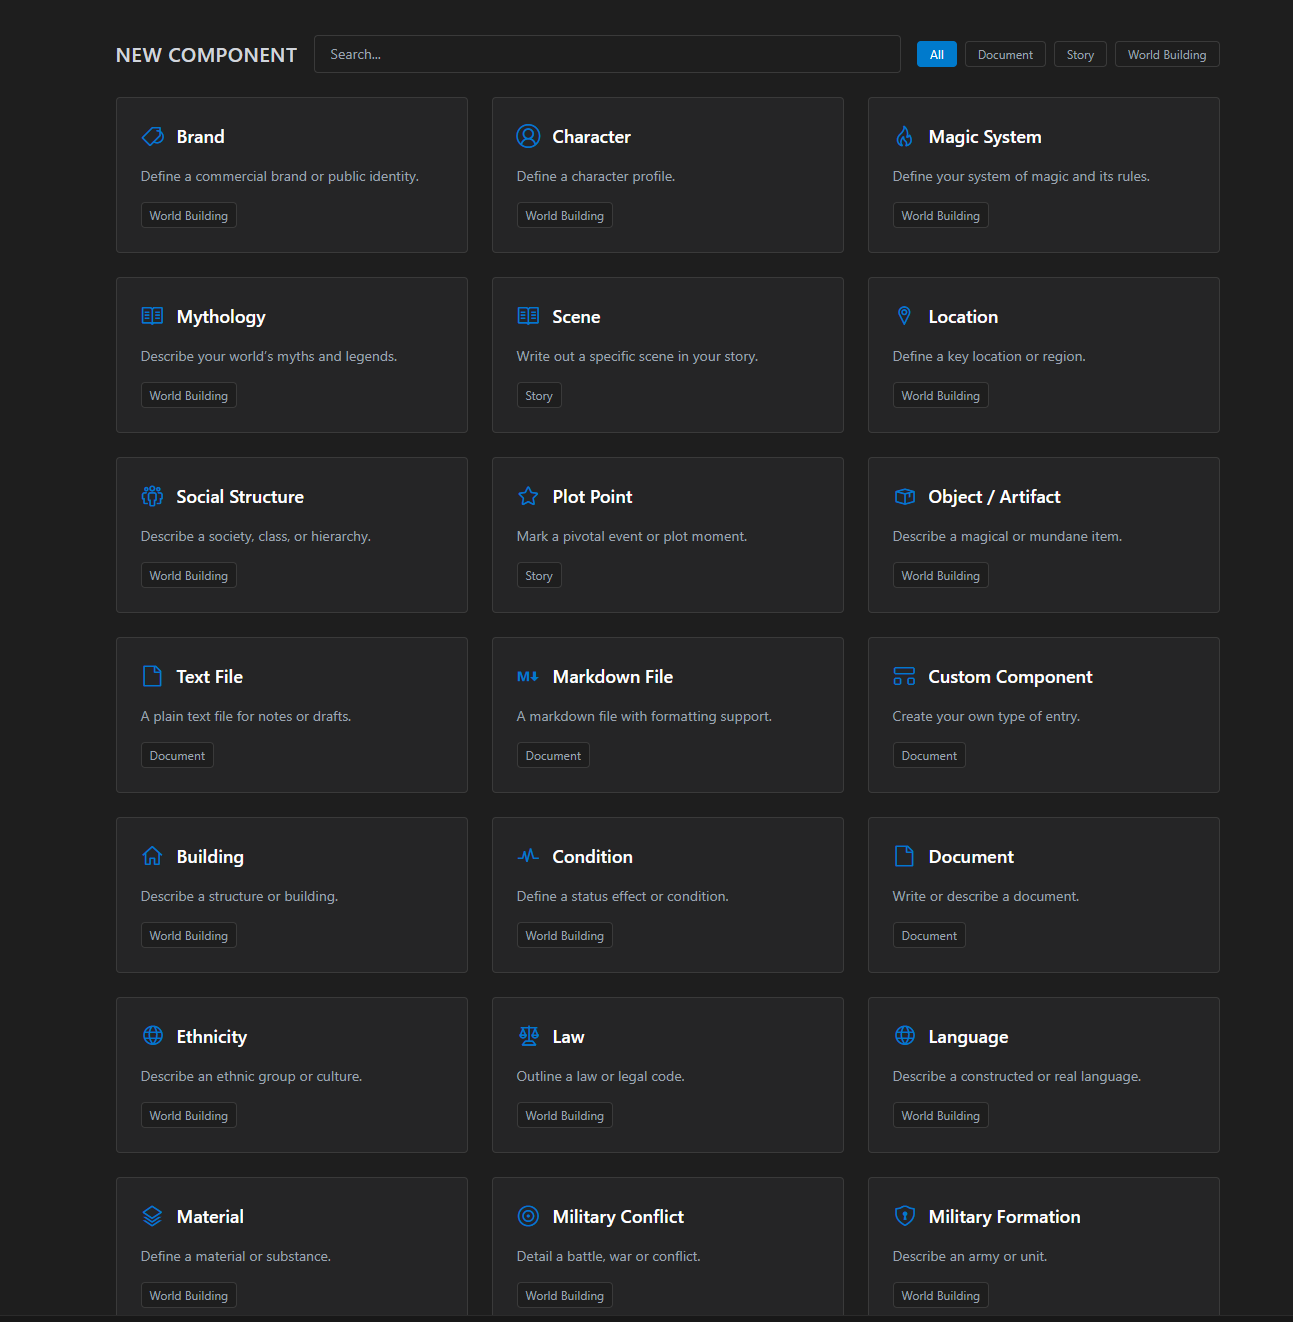
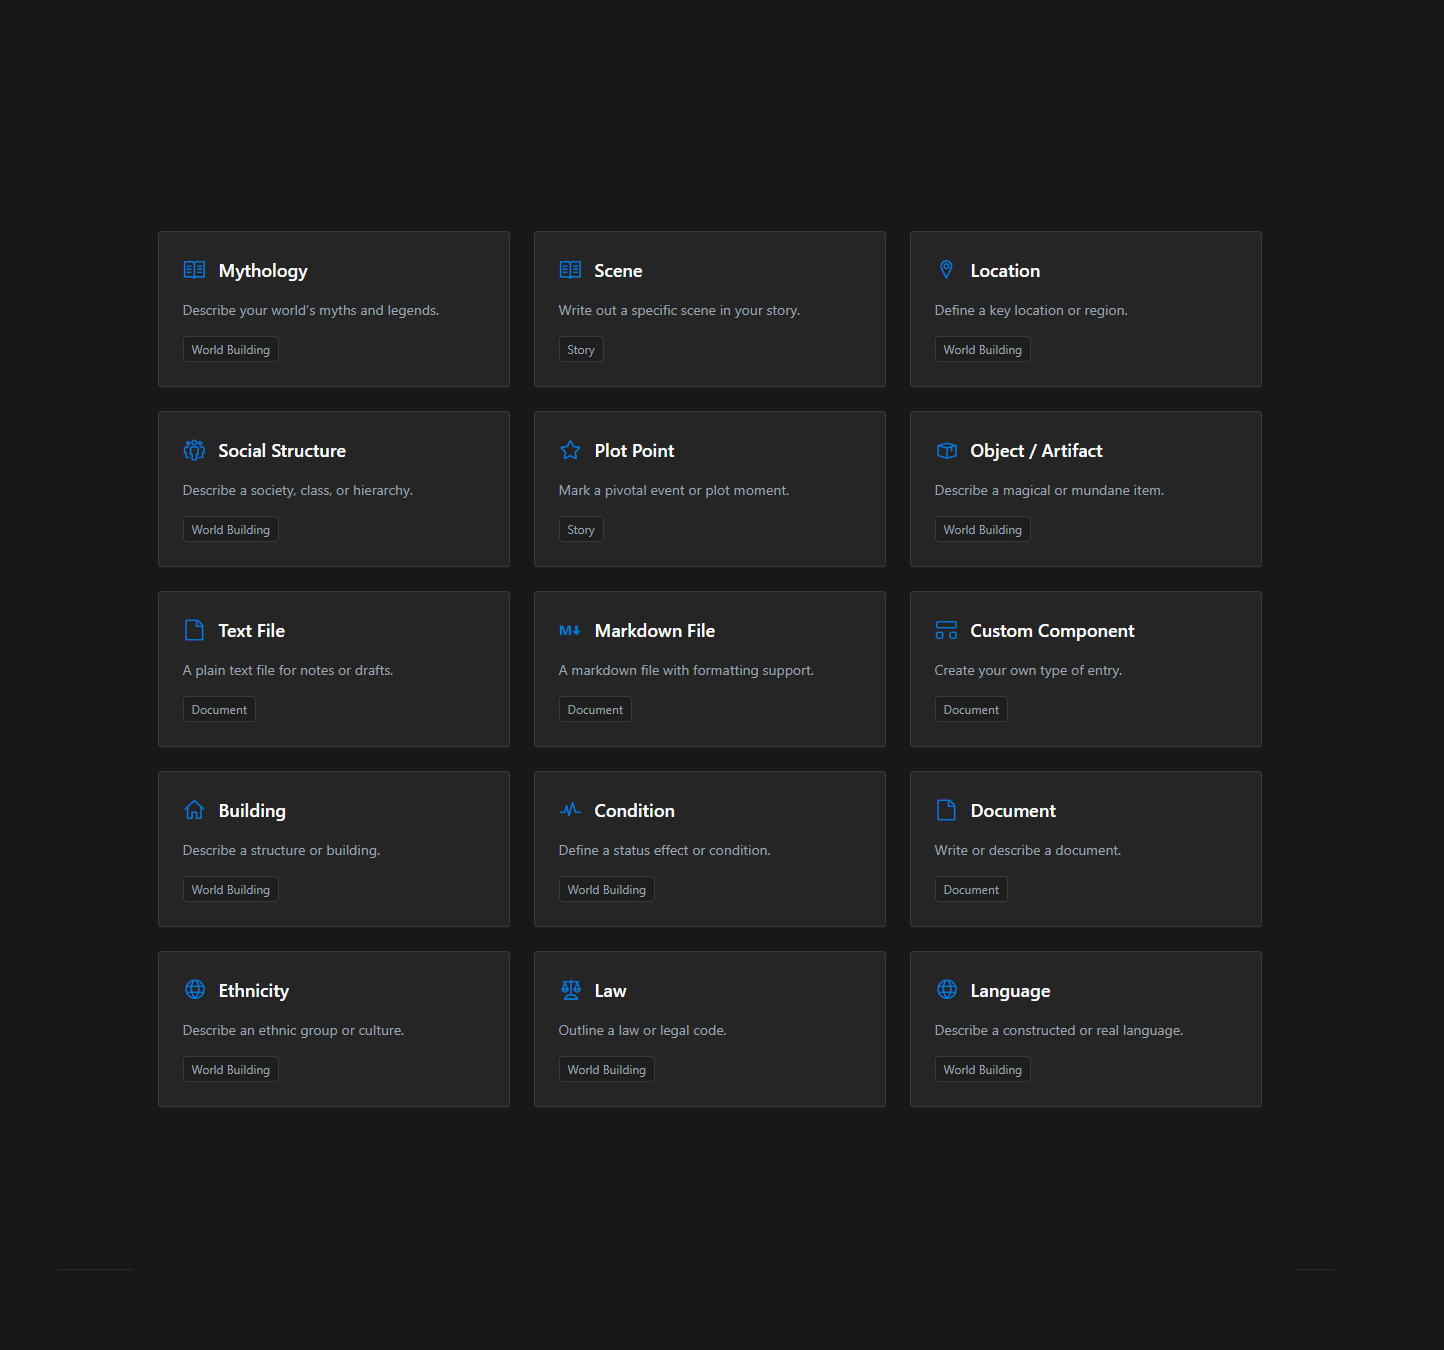
images adn colors update

diff --git a/app/components/FeaturesSection.vue b/app/components/FeaturesSection.vue
@@ -8,7 +8,7 @@
         Familiar layout, purpose-built tools. Keep the comfort of a code editor — minus the code — plus everything you need to grow worlds and stories.
       </p>
 
-      <ul class="divide-y divide-[#2b2b2b]">
+      <ul>
         <li v-for="(f, i) in features" :key="i" class="py-7">
           <!-- GRID: 4 coloane; textul 1/4, imaginea 3/4 (textul centrat vertical) -->
           <div class="md:grid md:grid-cols-4 gap-6">
@@ -64,7 +64,7 @@ const features = [
   {
     title: 'Component System',
     text:
-      'Everything is a component—scenes, chapters, plot points, characters, locations, magic systems, items, factions, and more. Components understand their relationships and come with swappable templates you can tailor per project.',
+      'Everything is a component — scenes, chapters, plot points, characters, locations, magic systems, items, factions, and more. Components understand their relationships and come with swappable templates you can tailor per project. There are over 40 types of components and more are coming.',
     img: '/images/component.png',
     alt: 'Component graph and templates'
   },
@@ -72,15 +72,8 @@ const features = [
     title: 'Reading Mode',
     text:
       'Turn drafts into an immersive, book-like reading view. Adjustable type and spacing, light/dark/custom themes, inline comments and highlights, plus shareable read-only previews for clean feedback.',
-    img: '/images/reading-dark.png',
+    img: '/images/reading.png',
     alt: 'Reader and theme previews'
-  },
-  {
-    title: 'Search that understands prose',
-    text:
-      'Find ideas, not just keywords. Blend semantic and exact search across drafts, notes, and metadata; filter by characters, locations, beats, threads, or tags; save smart collections; jump straight to every reference.',
-    img: 'https://placehold.co/800x600?text=Search',
-    alt: 'Search UI with filters'
   }
 ]
 </script>

diff --git a/app/components/DownloadSection.vue b/app/components/DownloadSection.vue
@@ -1,5 +1,5 @@
 <template>
-    <section id="download" aria-label="Download Ungated" class="py-15 md:py-16">
+    <section id="download" aria-label="Download Ungated" class="py-15 md:py-16 bg-[#181818]">
       <div class="mx-auto max-w-[1200px] px-5">
         <h2 class="text-[clamp(26px,3.8vw,40px)] leading-[1.15]">Download</h2>
         <p class="mb-5 text-[#9a9a9a]">Universal installers. Optimized builds for Apple Silicon, Intel, Windows and major Linux distros.</p>

diff --git a/app/components/FaqSection.vue b/app/components/FaqSection.vue
@@ -1,5 +1,5 @@
 <template>
-    <section id="faq" aria-label="Frequently asked questions" class="py-15 md:py-16">
+    <section id="faq" aria-label="Frequently asked questions" class="py-15 md:py-16 bg-[#181818]">
       <div class="mx-auto max-w-[1200px] px-5">
         <h2 class="text-[clamp(26px,3.8vw,40px)] leading-[1.15]">FAQ</h2>
         <details class="rounded-[4px] border border-[#2b2b2b] bg-[#1e1e1e] p-4">
